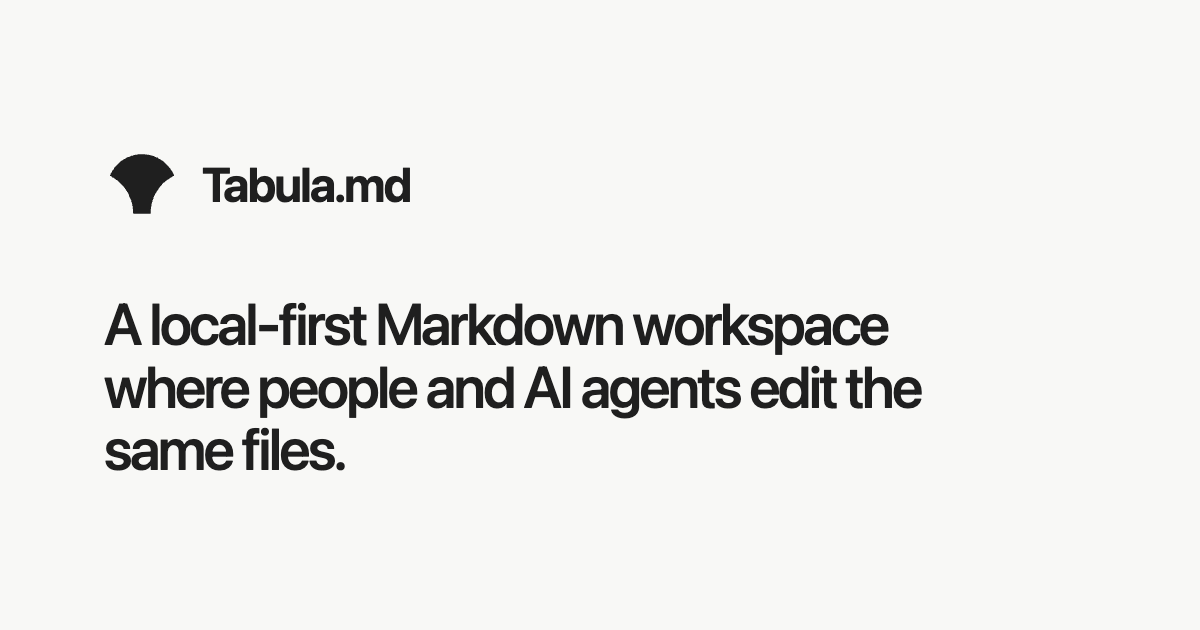
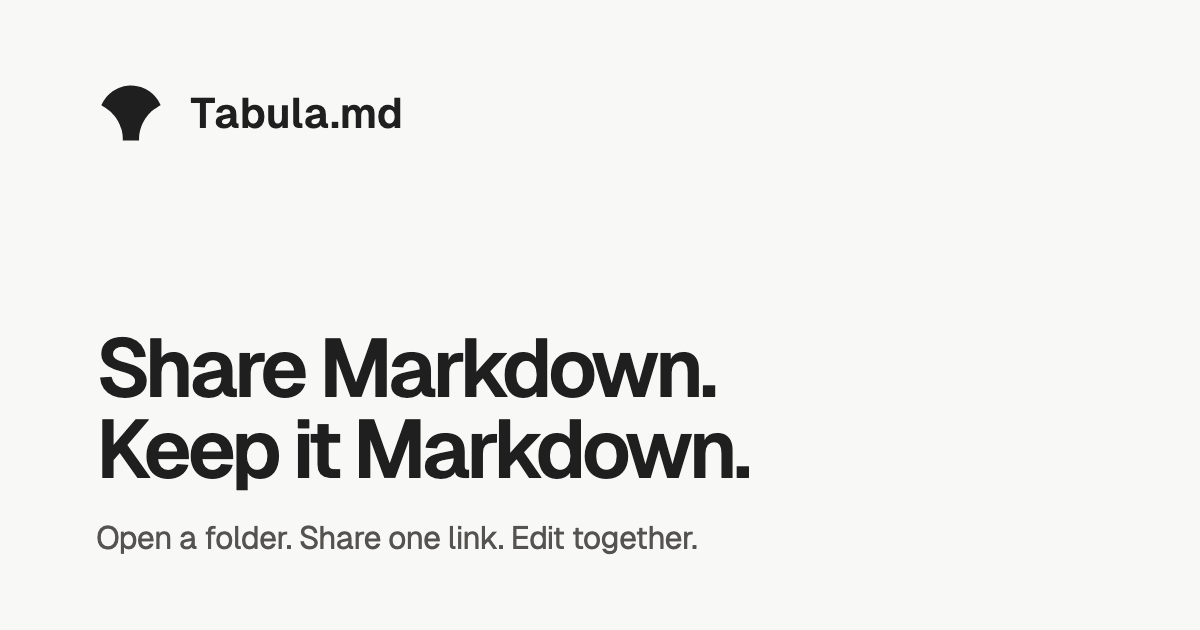
feat(product): lead with Markdown sharing

Changed region(s): [[0.0617, 0.4825, 0.7708, 0.7841], [0.0617, 0.1206, 0.3392, 0.3619], [0.0617, 0.8143, 0.5858, 0.8746]]

diff --git a/tabula-app/src/workspaceInfoLocale.ts b/tabula-app/src/workspaceInfoLocale.ts
@@ -23,7 +23,7 @@ const copies: Record<WorkspaceLanguage, WorkspaceInfoCopy> = {
     close: "Close",
     about: {
       title: "About Tabula.md",
-      description: "A local-first Markdown workspace for files that people and agents can share safely.",
+      description: "Open a Markdown folder, share one link, and edit together with people or AI.",
       points: [
         "Markdown files remain the primary unit of work.",
         "Local work stays in this browser until you export or share it.",
@@ -44,7 +44,7 @@ const copies: Record<WorkspaceLanguage, WorkspaceInfoCopy> = {
     close: "닫기",
     about: {
       title: "Tabula.md 소개",
-      description: "사람과 에이전트가 파일을 안전하게 공유할 수 있는 로컬 우선 Markdown 워크스페이스입니다.",
+      description: "Markdown 폴더를 열고 링크 하나로 사람이나 AI와 함께 편집하세요.",
       points: [
         "Markdown 파일이 작업의 기본 단위입니다.",
         "내보내거나 공유하기 전까지 로컬 작업은 이 브라우저에 저장됩니다.",
@@ -65,7 +65,7 @@ const copies: Record<WorkspaceLanguage, WorkspaceInfoCopy> = {
     close: "閉じる",
     about: {
       title: "Tabula.md について",
-      description: "人とエージェントがファイルを安全に共有できる、ローカルファーストの Markdown ワークスペースです。",
+      description: "Markdown フォルダーを開き、リンクを共有して、人や AI と一緒に編集できます。",
       points: [
         "Markdown ファイルが作業の基本単位です。",
         "エクスポートまたは共有するまで、ローカル作業はこのブラウザーに保存されます。",
@@ -86,7 +86,7 @@ const copies: Record<WorkspaceLanguage, WorkspaceInfoCopy> = {
     close: "关闭",
     about: {
       title: "关于 Tabula.md",
-      description: "一个本地优先的 Markdown 工作区，让用户和代理安全地共享文件。",
+      description: "打开 Markdown 文件夹，分享一个链接，即可与他人或 AI 一起编辑。",
       points: [
         "Markdown 文件是工作的基本单位。",
         "在导出或共享之前，本地工作保存在此浏览器中。",
@@ -107,7 +107,7 @@ const copies: Record<WorkspaceLanguage, WorkspaceInfoCopy> = {
     close: "Cerrar",
     about: {
       title: "Acerca de Tabula.md",
-      description: "Un espacio Markdown local primero para compartir archivos de forma segura entre personas y agentes.",
+      description: "Abre una carpeta Markdown, comparte un enlace y edita con personas o IA.",
       points: [
         "Los archivos Markdown son la unidad principal de trabajo.",
         "El trabajo local permanece en este navegador hasta que se exporta o comparte.",
@@ -128,7 +128,7 @@ const copies: Record<WorkspaceLanguage, WorkspaceInfoCopy> = {
     close: "Fermer",
     about: {
       title: "À propos de Tabula.md",
-      description: "Un espace Markdown local-first pour partager des fichiers en toute sécurité entre personnes et agents.",
+      description: "Ouvrez un dossier Markdown, partagez un lien et modifiez-le avec des personnes ou une IA.",
       points: [
         "Les fichiers Markdown restent l’unité de travail principale.",
         "Le travail local reste dans ce navigateur jusqu’à son export ou partage.",
@@ -149,7 +149,7 @@ const copies: Record<WorkspaceLanguage, WorkspaceInfoCopy> = {
     close: "Schließen",
     about: {
       title: "Über Tabula.md",
-      description: "Ein lokal ausgerichteter Markdown-Arbeitsbereich zum sicheren Teilen von Dateien zwischen Menschen und Agenten.",
+      description: "Öffne einen Markdown-Ordner, teile einen Link und bearbeite ihn gemeinsam mit Menschen oder KI.",
       points: [
         "Markdown-Dateien bleiben die zentrale Arbeitseinheit.",
         "Lokale Arbeit bleibt bis zum Export oder Teilen in diesem Browser.",

diff --git a/tabula-app/src/workspaceLocale.ts b/tabula-app/src/workspaceLocale.ts
@@ -139,8 +139,7 @@ const workspaceMenuCopy: Record<WorkspaceLanguage, WorkspaceMenuCopy> = {
       dark: "Dark",
     },
     emptyState: {
-      tagline:
-        "A local-first workspace for files that people and agents can share safely.",
+      tagline: "Open Markdown. Share one link. Edit together.",
       newFile: "New document",
       openFile: "Open Markdown file",
       openWorkspace: "Open workspace",
@@ -242,8 +241,7 @@ const workspaceMenuCopy: Record<WorkspaceLanguage, WorkspaceMenuCopy> = {
       dark: "다크",
     },
     emptyState: {
-      tagline:
-        "사람과 에이전트가 안전하게 공유할 수 있는 로컬 우선 작업공간.",
+      tagline: "Markdown을 여세요. 링크 하나를 공유하고 함께 편집하세요.",
       newFile: "새 문서",
       openFile: "Markdown 파일 열기",
       openWorkspace: "워크스페이스 열기",
@@ -345,8 +343,7 @@ const workspaceMenuCopy: Record<WorkspaceLanguage, WorkspaceMenuCopy> = {
       dark: "ダーク",
     },
     emptyState: {
-      tagline:
-        "人とエージェントが安全に共有できるローカルファーストのワークスペース。",
+      tagline: "Markdownを開く。リンクを共有して、一緒に編集。",
       newFile: "新規ドキュメント",
       openFile: "Markdownファイルを開く",
       openWorkspace: "ワークスペースを開く",
@@ -450,7 +447,7 @@ const workspaceMenuCopy: Record<WorkspaceLanguage, WorkspaceMenuCopy> = {
       dark: "深色",
     },
     emptyState: {
-      tagline: "让人与编码智能体安全共享文件的本地优先工作区。",
+      tagline: "打开 Markdown。分享一个链接，一起编辑。",
       newFile: "新建文档",
       openFile: "打开 Markdown 文件",
       openWorkspace: "打开工作区",
@@ -550,8 +547,7 @@ const workspaceMenuCopy: Record<WorkspaceLanguage, WorkspaceMenuCopy> = {
       dark: "Oscuro",
     },
     emptyState: {
-      tagline:
-        "Un espacio local-first para compartir archivos con personas y agentes.",
+      tagline: "Abre Markdown. Comparte un enlace. Edita en equipo.",
       newFile: "Nuevo documento",
       openFile: "Abrir archivo Markdown",
       openWorkspace: "Abrir espacio de trabajo",
@@ -655,8 +651,7 @@ const workspaceMenuCopy: Record<WorkspaceLanguage, WorkspaceMenuCopy> = {
       dark: "Sombre",
     },
     emptyState: {
-      tagline:
-        "Un espace local-first pour partager des fichiers avec des personnes et des agents.",
+      tagline: "Ouvrez Markdown. Partagez un lien. Modifiez ensemble.",
       newFile: "Nouveau document",
       openFile: "Ouvrir un fichier Markdown",
       openWorkspace: "Ouvrir un espace de travail",
@@ -760,8 +755,7 @@ const workspaceMenuCopy: Record<WorkspaceLanguage, WorkspaceMenuCopy> = {
       dark: "Dunkel",
     },
     emptyState: {
-      tagline:
-        "Ein local-first Workspace zum sicheren Teilen von Dateien mit Menschen und Agenten.",
+      tagline: "Markdown öffnen. Einen Link teilen. Gemeinsam bearbeiten.",
       newFile: "Neues Dokument",
       openFile: "Markdown-Datei öffnen",
       openWorkspace: "Workspace öffnen",

diff --git a/tabula-app/src/workspaceLocale.test.ts b/tabula-app/src/workspaceLocale.test.ts
@@ -17,6 +17,18 @@ describe("workspace locale chrome copy", () => {
     ]);
   });
 
+  it("keeps the start message action-first in every language", () => {
+    expect(WORKSPACE_LANGUAGE_OPTIONS.map(({ value }) => getWorkspaceMenuCopy(value).emptyState.tagline)).toEqual([
+      "Open Markdown. Share one link. Edit together.",
+      "Markdown을 여세요. 링크 하나를 공유하고 함께 편집하세요.",
+      "Markdownを開く。リンクを共有して、一緒に編集。",
+      "打开 Markdown。分享一个链接，一起编辑。",
+      "Abre Markdown. Comparte un enlace. Edita en equipo.",
+      "Ouvrez Markdown. Partagez un lien. Modifiez ensemble.",
+      "Markdown öffnen. Einen Link teilen. Gemeinsam bearbeiten.",
+    ]);
+  });
+
   it("localizes Preferences, empty state, and Share chrome together", () => {
     const english = getWorkspaceMenuCopy("en");
     expect(english.actions.preferences).toBe("Preferences");
@@ -25,7 +37,7 @@ describe("workspace locale chrome copy", () => {
     expect(english.actions.exportFile).toBe("Export document (.md)");
     expect(english.actions.exportWorkspace).toBe("Export workspace (.zip)");
     expect(english.emptyState.tagline).toBe(
-      "A local-first workspace for files that people and agents can share safely.",
+      "Open Markdown. Share one link. Edit together.",
     );
     expect(english.emptyState.newFile).toBe("New document");
     expect(english.share.live.startSession).toBe("Start session");

diff --git a/tabula-app/index.html b/tabula-app/index.html
@@ -6,14 +6,14 @@
     <meta name="viewport" content="width=device-width, initial-scale=1.0" />
     <meta
       name="description"
-      content="A local-first Markdown workspace where people and AI agents edit the same files."
+      content="Open a Markdown folder, share one link, and edit together with people or AI—no signup or repository required."
     />
     <meta name="theme-color" content="#f8f8f6" />
     <link rel="canonical" href="https://tabula.md/" />
     <meta property="og:title" content="Tabula.md" />
     <meta
       property="og:description"
-      content="A local-first Markdown workspace where people and AI agents edit the same files."
+      content="Open a Markdown folder, share one link, and edit together with people or AI—no signup or repository required."
     />
     <meta property="og:type" content="website" />
     <meta property="og:url" content="https://tabula.md/" />
@@ -24,7 +24,7 @@
     <meta name="twitter:title" content="Tabula.md" />
     <meta
       name="twitter:description"
-      content="A local-first Markdown workspace where people and AI agents edit the same files."
+      content="Open a Markdown folder, share one link, and edit together with people or AI—no signup or repository required."
     />
     <meta name="twitter:image" content="https://tabula.md/social-card.png" />
     <title>Tabula.md</title>

diff --git a/tabula-app/src/workspaceStorage.ts b/tabula-app/src/workspaceStorage.ts
@@ -28,12 +28,12 @@ const STARTER_MARKDOWN = "";
 export const README_FILE_ID = "tabula-readme";
 export const STARTER_README_MARKDOWN = `---
 title: ${PRODUCT_NAME}
-description: A local-first Markdown workspace for files that people and agents can share safely.
+description: Share Markdown. Keep it Markdown.
 ---
 
-${PRODUCT_NAME} is a local-first Markdown workspace for files that people and agents can share safely.
+Share Markdown. Keep it Markdown.
 
-No dashboard first. No project ceremony. Open a workspace, write Markdown, and start a live room when the workspace is ready to collaborate.
+Open a folder, share one link, and edit together without moving your files into another platform.
 
 ## Start here
 

diff --git a/README.md b/README.md
@@ -7,9 +7,9 @@
 <h1 align="center">Tabula.md</h1>
 
 <p align="center">
-  A local-first Markdown workspace where people and AI agents edit the same files.
+  <strong>Share Markdown. Keep it Markdown.</strong>
   <br />
-  No account or platform workspace required.
+  Open a folder, share one link, and edit together—without accounts, repositories, or platform migration.
 </p>
 
 <p align="center"><a href="https://tabula.md">Open Tabula.md</a></p>
@@ -18,7 +18,7 @@
   <a href="https://tabula.md" target="_blank" rel="noopener">
     <img
       src=".github/assets/tabula-product-demo.gif"
-      alt="An agent and a browser editing the same Tabula.md Markdown workspace"
+      alt="A Markdown folder becoming a live Tabula.md room that two people edit together"
       width="960"
     />
   </a>
@@ -26,10 +26,10 @@
 
 ## Why Tabula.md
 
-- Open a Markdown workspace without signing up.
+- Open a Markdown folder without signing up.
 - Keep Markdown files as the source of truth.
 - Share the whole workspace with one encrypted room link.
-- Let people and AI agents edit through the same collaboration model.
+- Edit together in the browser, or invite an AI agent from its own tools.
 
 Tabula.md is in public preview. The hosted app at
 [tabula.md](https://tabula.md) is the reference deployment.
